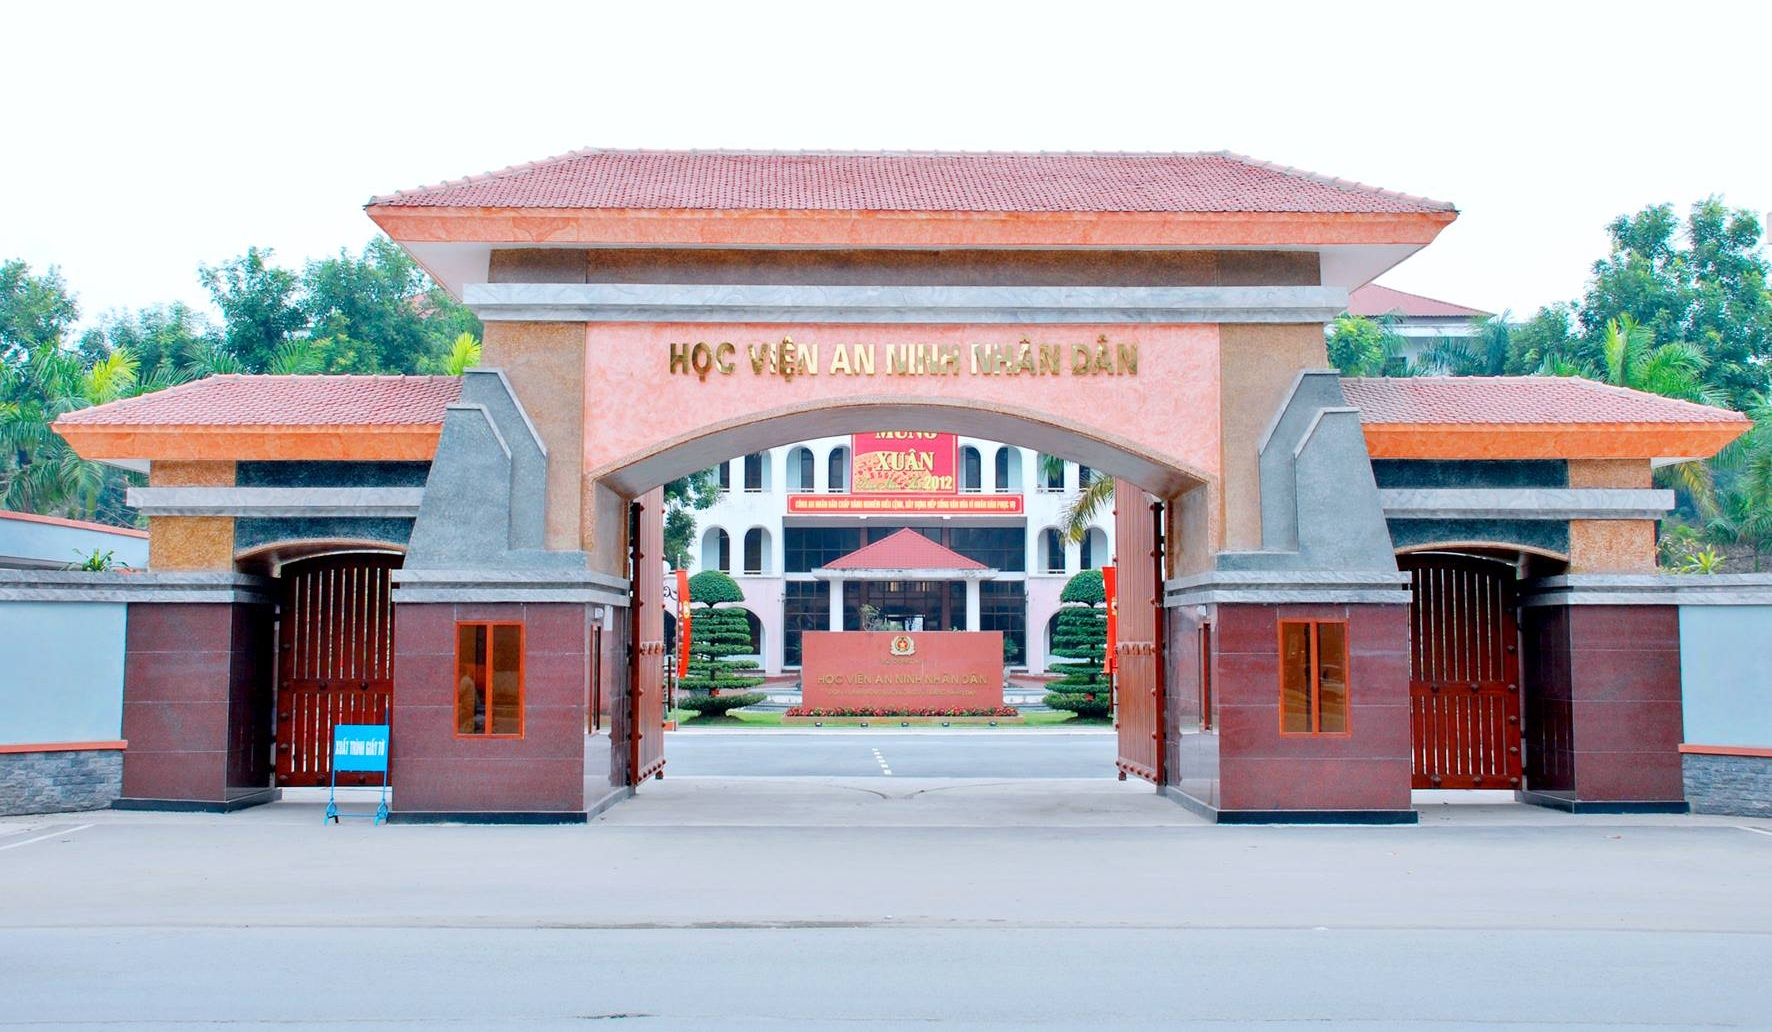
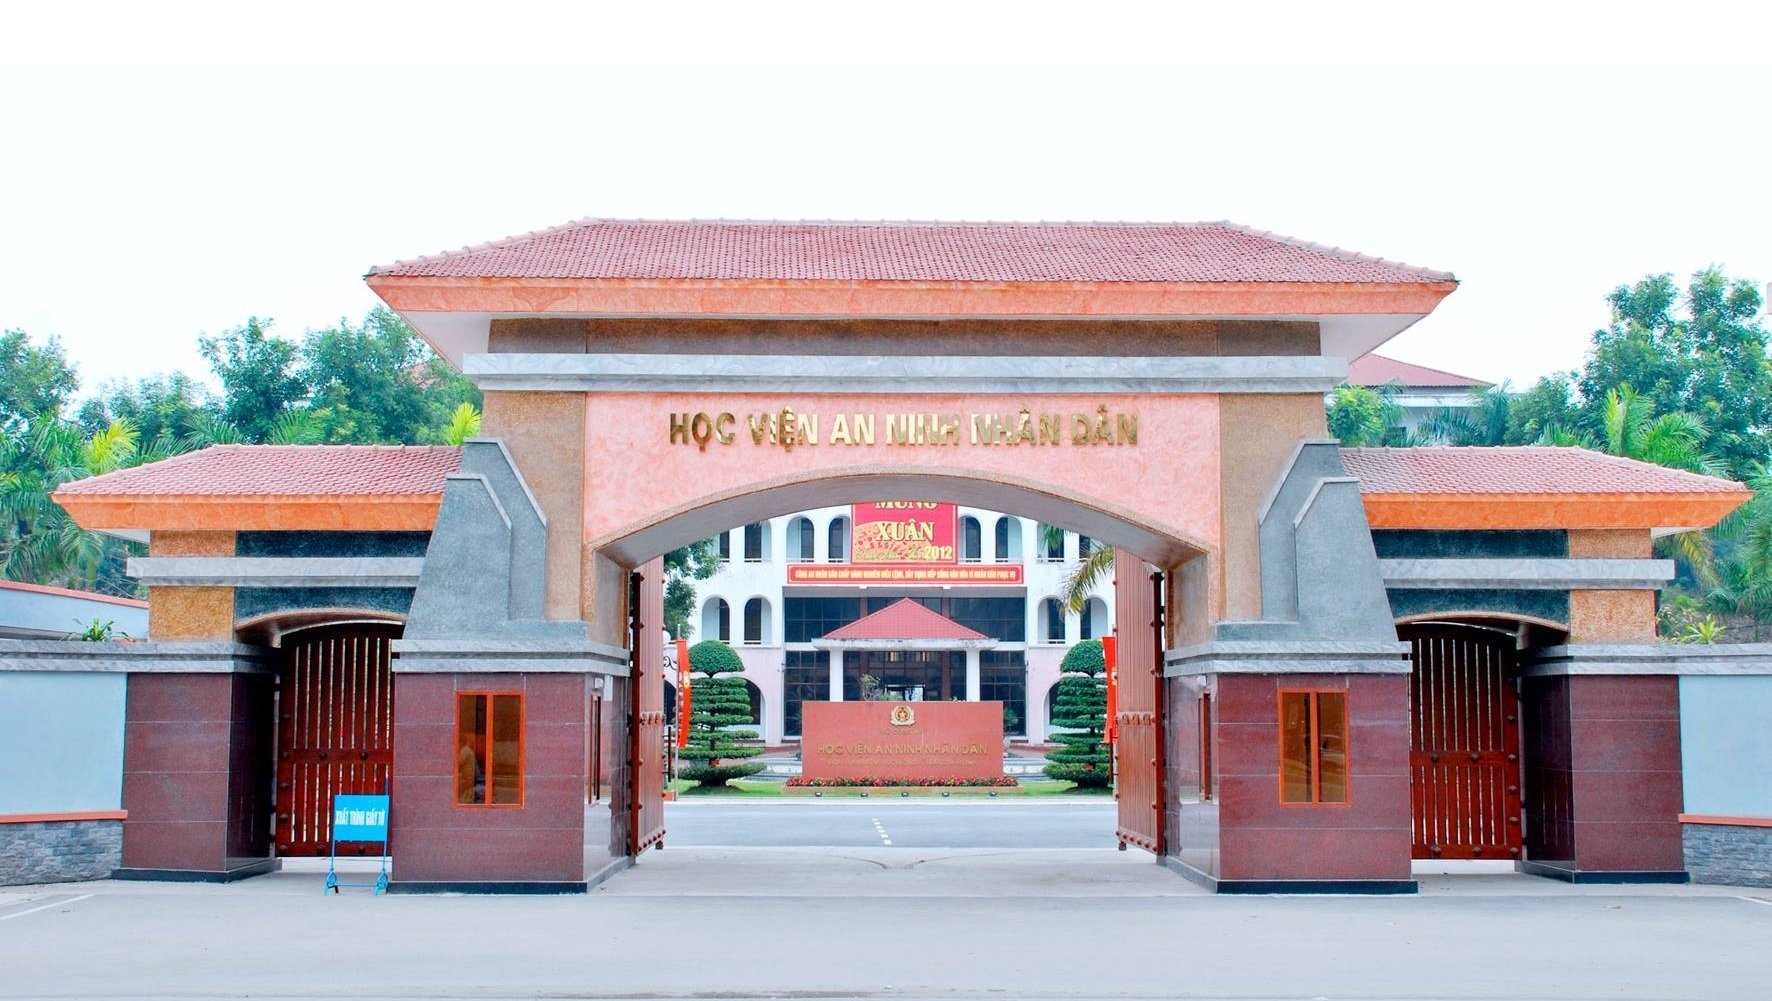
Add files via upload
sửa background

diff --git a/style_index.css b/style_index.css
@@ -5,6 +5,7 @@ body
 	background: url("./r-1745562029.jpg");
 	background-size: cover;
 	background-repeat:no-repeat;
+	background-position: center;
 }
 .loginbox
 {
@@ -158,3 +159,13 @@ body
     border-radius: 6px;
     cursor: pointer;
 }
+
+.alert-box button:hover
+{
+	background: rgba(158,165,183,1.00);
+}
+
+
+
+
+													/*Thuộc tính cho dấu tick*/
